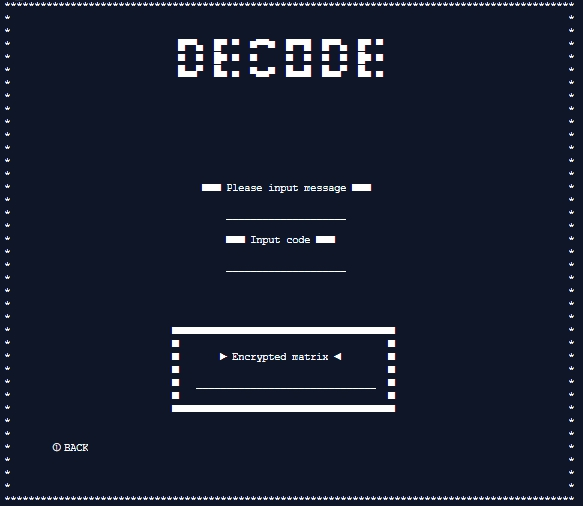
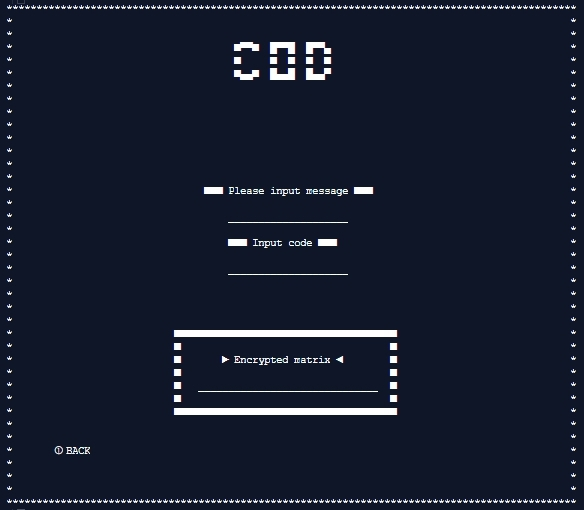
update

diff --git a/README.md b/README.md
@@ -63,7 +63,7 @@
 * output จะเป็นข้อความที่ถูกถอดรหัสครับ
     * I love IT KMITL.
 #### 
-![Image](picture/matrixen.jpg)
+![Image](picture/matrixde.jpg)
 
 ### Character circle
 #### ในส่วนของcharactor circle ครับจะเป็นการเข้ารหัสและถอดรหัสแบบวงตัวอักษรครับ
